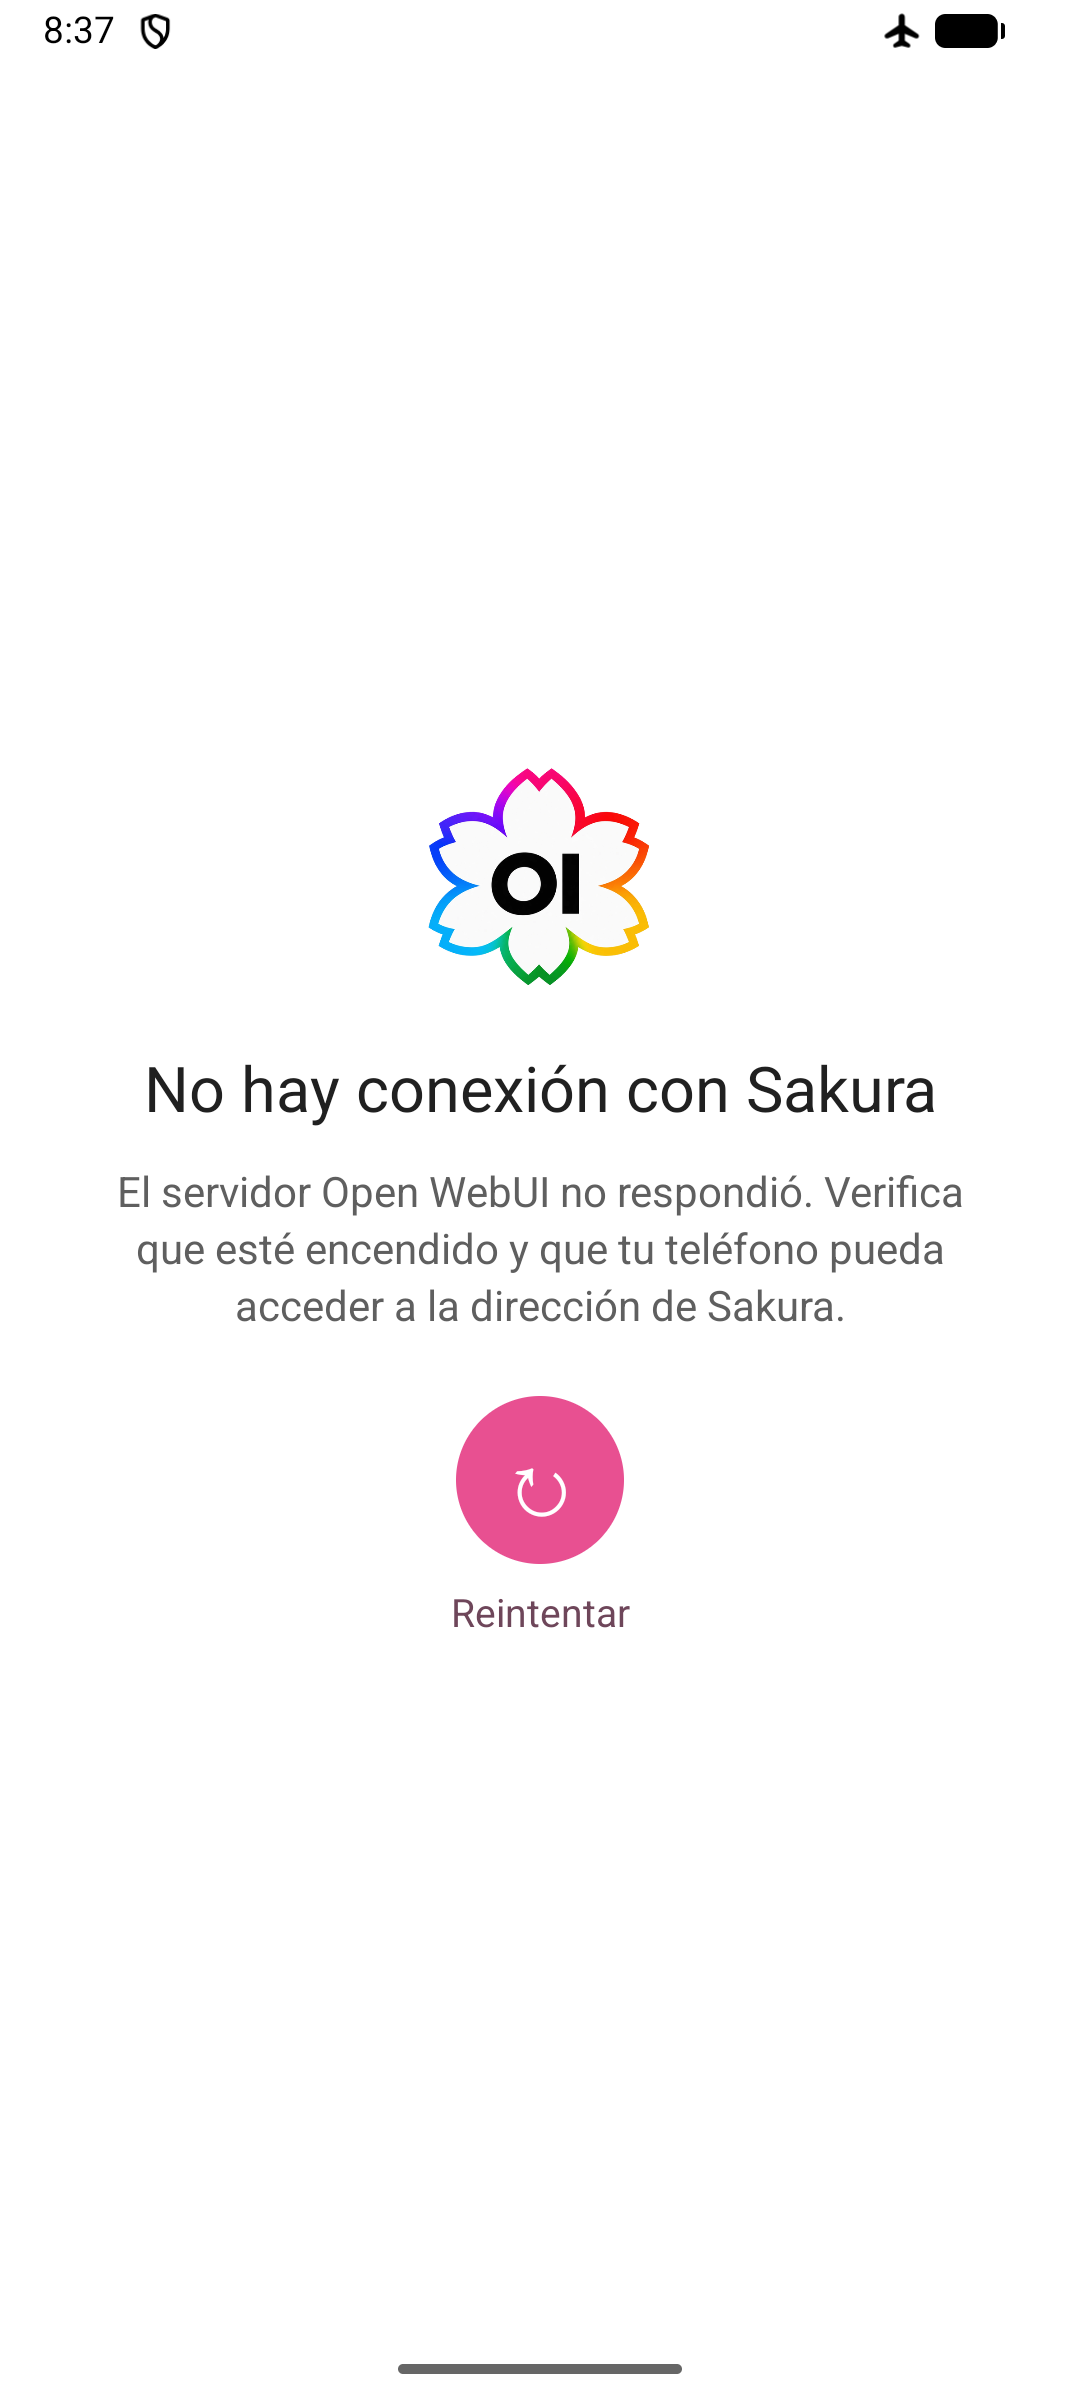
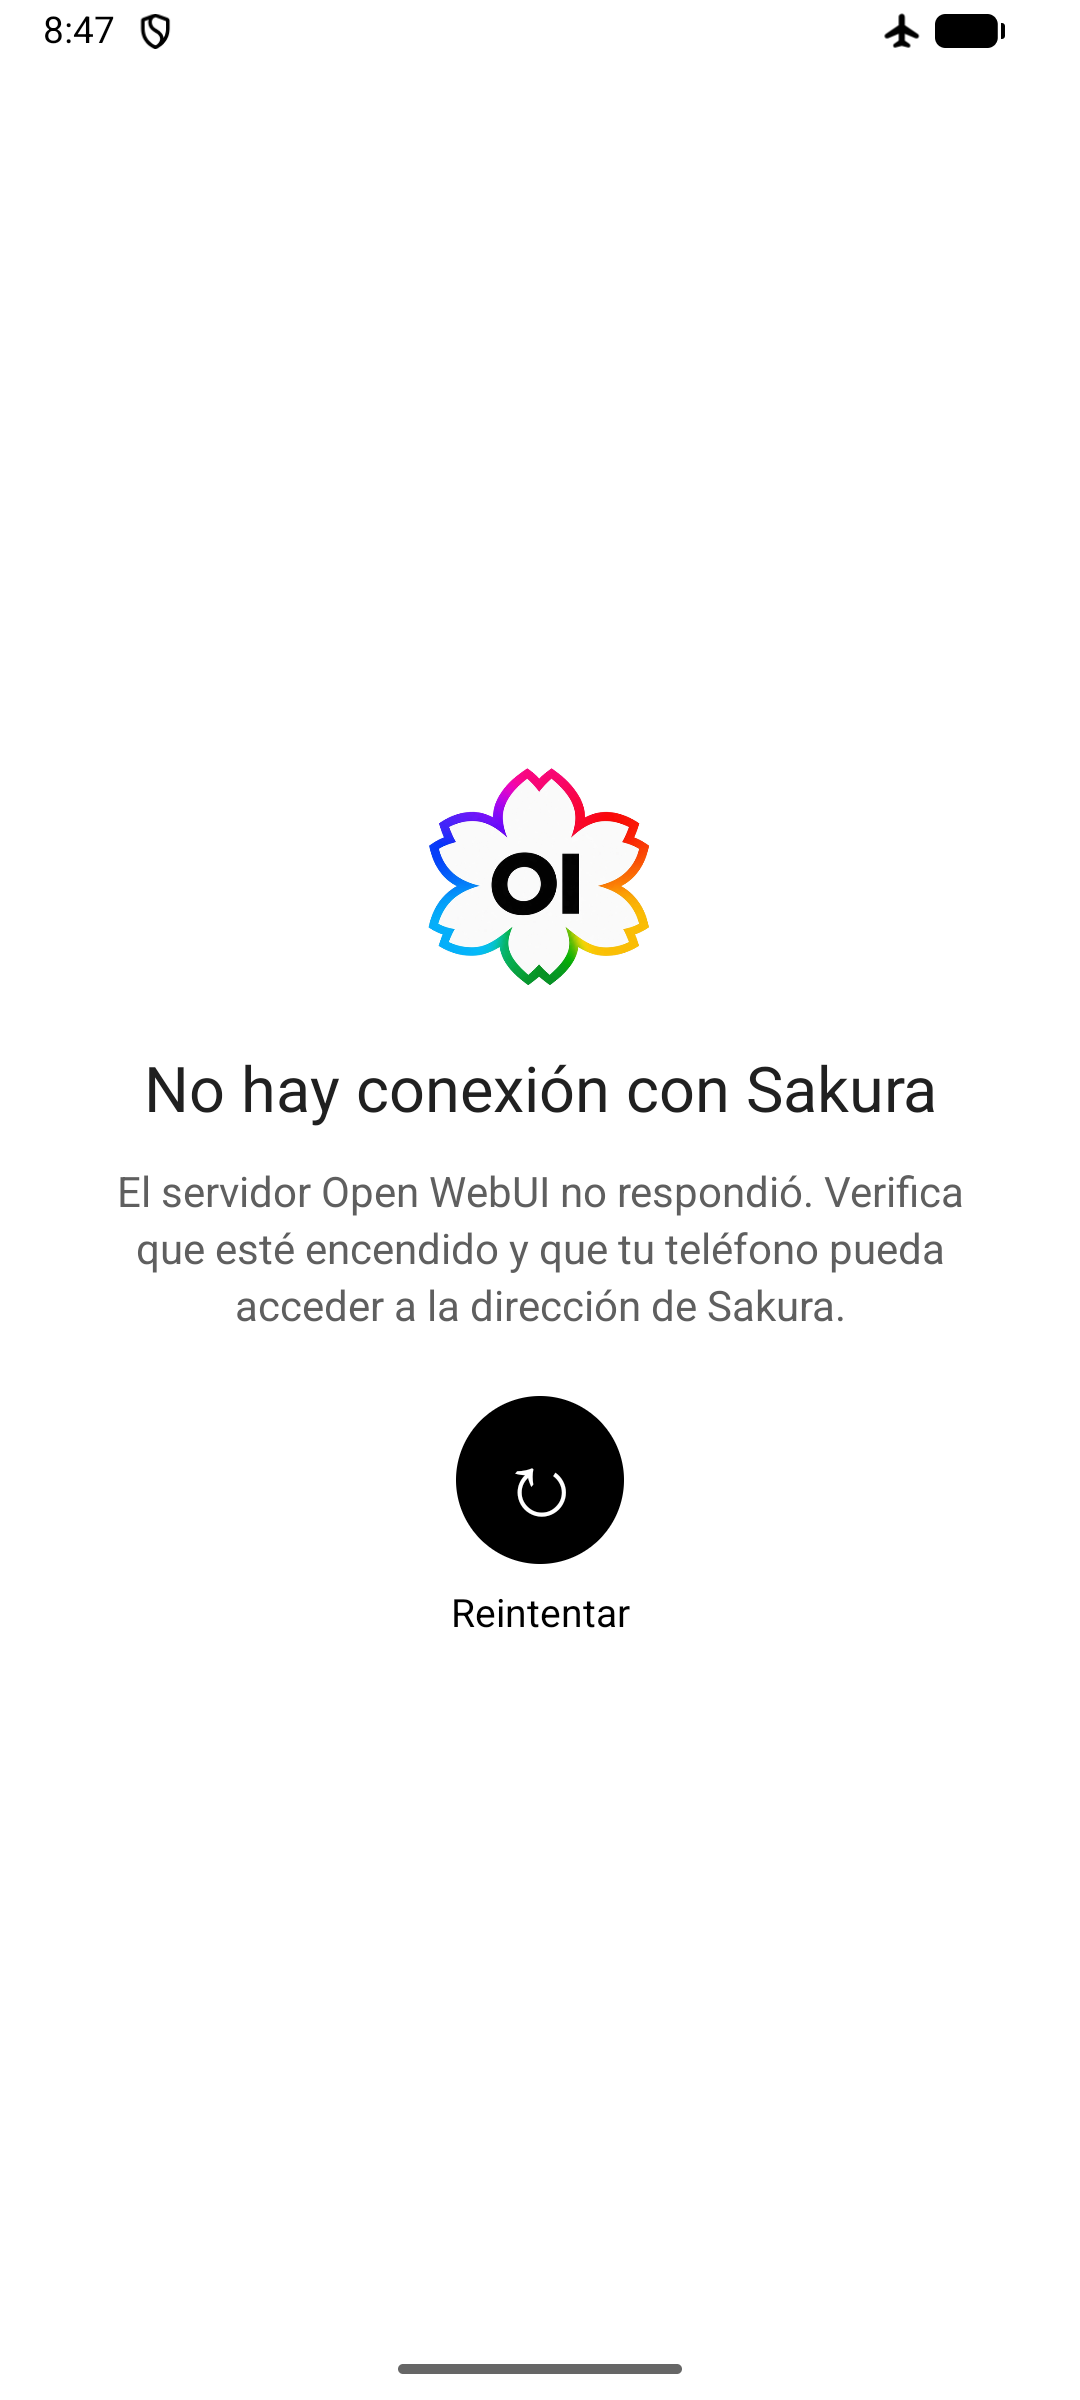
Rename the project to Sakura-OI-Web and document 0.2.3
Gradle root project name, example paths in the guides, README release
notes and history row, CHANGELOG entry and error screen screenshot.

Changed region(s): [[0.4278, 0.5625, 0.5806, 0.6875], [0.0611, 0.0, 0.0917, 0.0312]]

diff --git a/README.md b/README.md
@@ -1,4 +1,4 @@
-# 🌸 Sakura OI Web 📱 v0.2.2
+# 🌸 Sakura OI Web 📱 v0.2.3
 
 <div align="center">
   <img src="assets/sakura-oi-web-icon.png" alt="Logo de Sakura OI Web: flor con contorno arcoíris y las letras OI" width="160">
@@ -63,8 +63,8 @@ Las capturas muestran la animación de inicio mientras conecta, la pantalla de e
 
 ## 📦 Versiones documentadas
 
-- App: Sakura OI Web **0.2.2** (versionCode 26). Historial completo en [CHANGELOG.md](CHANGELOG.md).
-- Notificaciones verificadas en el teléfono Android 16 de referencia con Open WebUI 0.12.3. Pantallas, icono y barras en tema claro y oscuro de 0.2.1 y 0.2.2 verificados en el emulador de Android Studio (API 37).
+- App: Sakura OI Web **0.2.3** (versionCode 27). Historial completo en [CHANGELOG.md](CHANGELOG.md).
+- Notificaciones verificadas en el teléfono Android 16 de referencia con Open WebUI 0.12.3. Pantallas, icono y barras en tema claro y oscuro de 0.2.1 a 0.2.3 verificados en el emulador de Android Studio (API 37).
 - Open WebUI: **0.12.3**, versión verificada en la instalación local.
 - Nombre visible del modelo en Open WebUI: **Sakura**. Los registros identifican **llama.cpp 0.7.0-dev**, compilado para x64 con CUDA desde el commit `ea0c4c2c8`, que carga `SoAIHQ/Qwen3.5-9B-GGUF:Q4_K_M` (Qwen 3.5 de 9B, cuantización Q4_K_M). llama.cpp es el servidor de inferencia; el modelo no pertenece a la familia Llama. El alias Sakura se configura en Open WebUI.
 - Voz de ejemplo (opcional): Qwen3-TTS Fast compatible con API de OpenAI, modelo **qwen3-tts-clone-0.6b**, puerto local **5052**. Puedes usar otro TTS compatible o no configurar voz.
@@ -72,7 +72,13 @@ Las capturas muestran la animación de inicio mientras conecta, la pantalla de e
 - Herramientas fijadas en el proyecto: Android Gradle Plugin 9.4.1, Gradle 9.6.0, Kotlin 2.2.10 y JDK 17 para ejecutar Gradle. El código Java usa compatibilidad de lenguaje 11.
 - La activación por palabra “Oye, Sakura” queda como idea futura; no está implementada.
 
-## 🆕 Novedades de la versión 0.2.2
+## 🆕 Novedades de la versión 0.2.3
+
+- **Botón Reintentar en negro:** en la pantalla “No hay conexión con Sakura”, el botón redondo es negro con la flecha blanca y el texto **Reintentar** es negro, igual que la pantalla de carga. En modo oscuro se invierten: botón blanco, flecha negra y texto blanco.
+- **Repositorio renombrado a Sakura-OI-Web:** las rutas de ejemplo de las guías usan la carpeta `Sakura-OI-Web` y el proyecto de Android Studio se llama igual. Los enlaces antiguos a `SakuraWebApp` redirigen al nuevo nombre.
+- **Captura de la pantalla de error** actualizada.
+
+### Versión 0.2.2
 
 - **Indicador de carga y texto en negro:** el círculo que gira y el texto “Conectándose con el servidor…” de la pantalla de carga ahora son negros, en lugar del arcoíris y el rosa de 0.2.1. Con el teléfono en modo oscuro se muestran en blanco para que se vean sobre el fondo oscuro.
 - **Captura de la pantalla de carga** actualizada.
@@ -94,7 +100,7 @@ Cambios solo de documentación y del servidor, publicados entre las versiones 0.
 - **Cambiar el logo y el favicon de Open WebUI:** [server/aplicar_icono.py](server/aplicar_icono.py) genera todos los iconos desde una imagen, los aplica sin reiniciar y puede restaurar los originales con `--restaurar`. Desde cualquier carpeta:
 
   ```powershell
-  & 'C:\ruta\a\Open WebUI\Scripts\python.exe' 'C:\ruta\a\SakuraWebApp\server\aplicar_icono.py' --logo 'C:\ruta\a\mi-logo.png'
+  & 'C:\ruta\a\Open WebUI\Scripts\python.exe' 'C:\ruta\a\Sakura-OI-Web\server\aplicar_icono.py' --logo 'C:\ruta\a\mi-logo.png'
   ```
 
   Detalles, licencia y cómo quitar el icono viejo de la caché en [docs/ICONO-OPENWEBUI.md](docs/ICONO-OPENWEBUI.md).
@@ -115,7 +121,8 @@ Resumen de todos los cambios de la app. El detalle de cada versión está en [CH
 
 | Versión | versionCode | Cambios |
 |---|---:|---|
-| **0.2.2** | 26 | Indicador de carga y texto “Conectándose con el servidor…” en negro (blanco en modo oscuro). |
+| **0.2.3** | 27 | Botón y texto **Reintentar** en negro (invertidos en modo oscuro); repositorio y proyecto renombrados a Sakura-OI-Web. |
+| 0.2.2 | 26 | Indicador de carga y texto “Conectándose con el servidor…” en negro (blanco en modo oscuro). |
 | 0.2.1 | 25 | Nombre Sakura OI Web, nueva identidad (icono, logo y pantallas), indicador de carga con los colores del logo, texto “Conectándose con el servidor…”, barras del sistema que siguen el tema oscuro y reconocimiento de URLs sin puerto (Tailscale). |
 | 0.2.0 | 24 | Compilación local con el nombre Sakura OI Web; no se publicó por separado y sus cambios están en 0.2.1. |
 | 0.1.12 | 23 | Compilación local con la flor de Sakura en la pantalla de error; incluida en 0.2.1. |
@@ -152,7 +159,7 @@ Instala Android Studio compatible con Android Gradle Plugin 9.4.1, Android SDK P
 | Android mínimo | API 23 / Android 6.0 | Versión mínima para instalar la app |
 | Android objetivo | API 36 / Android 16 | Comportamientos de Android para los que está configurada |
 | SDK de compilación | API 37 / Android 17 | Plataforma necesaria para compilar; no es requisito para el teléfono |
-| Versión de Sakura OI Web | 0.2.2 (versionCode 26) | Versión del APK de este repositorio |
+| Versión de Sakura OI Web | 0.2.3 (versionCode 27) | Versión del APK de este repositorio |
 
 La versión de Android de tu teléfono es independiente del SDK de compilación. En el dispositivo Android 16 de referencia, la app funciona con target API 36.
 

diff --git a/docs/ANDROID.md b/docs/ANDROID.md
@@ -17,7 +17,7 @@ Esta tabla distingue la versión de Android que puede instalar la app del SDK us
 | Android mínimo (minSdk) | API 23 / Android 6.0 | Versión mínima admitida por el APK |
 | Android objetivo (targetSdk) | API 36 / Android 16 | Comportamientos del sistema para los que se configura |
 | SDK de compilación (compileSdk) | API 37 / Android 17 | SDK que debe instalarse para compilar; el teléfono no requiere Android 17 |
-| Sakura OI Web | 0.2.2 (versionCode 26) | Versión actual del proyecto |
+| Sakura OI Web | 0.2.3 (versionCode 27) | Versión actual del proyecto |
 | Android Gradle Plugin | 9.4.1 | Plugin de compilación Android |
 | Gradle Wrapper | 9.6.0 | Versión incluida y usada por el proyecto |
 | Kotlin | 2.2.10 | Versión configurada del plugin de Kotlin |
@@ -147,7 +147,7 @@ Las pantallas de carga y de error, y la ventana que Android muestra mientras abr
 
 ## Carga y error de conexión
 
-Al abrir o reanudar una nueva instancia de Sakura OI Web, primero aparece una pantalla propia de carga con el logo, el nombre y la versión de la app, un indicador giratorio y el texto “Conectándose con el servidor…”, ambos en negro (en blanco si el teléfono está en modo oscuro). No es la pantalla de Open WebUI: es el estado de inicio de la app. Cuando el servidor responde, se oculta la carga y se muestra la interfaz completa de Open WebUI dentro del WebView. Si la página principal no carga en cinco segundos, la app presenta una pantalla propia de error “No hay conexión con Sakura”, en vez de dejar una página blanca o mostrar el error de Chromium. El botón **Reintentar** vuelve a mostrar la carga y realiza una nueva navegación. Android puede destruir el proceso en segundo plano; al abrir de nuevo, la carga vuelve a mostrarse.
+Al abrir o reanudar una nueva instancia de Sakura OI Web, primero aparece una pantalla propia de carga con el logo, el nombre y la versión de la app, un indicador giratorio y el texto “Conectándose con el servidor…”, ambos en negro (en blanco si el teléfono está en modo oscuro). No es la pantalla de Open WebUI: es el estado de inicio de la app. Cuando el servidor responde, se oculta la carga y se muestra la interfaz completa de Open WebUI dentro del WebView. Si la página principal no carga en cinco segundos, la app presenta una pantalla propia de error “No hay conexión con Sakura”, en vez de dejar una página blanca o mostrar el error de Chromium. El botón **Reintentar** (negro con la flecha blanca, o blanco con la flecha negra en modo oscuro) vuelve a mostrar la carga y realiza una nueva navegación. Android puede destruir el proceso en segundo plano; al abrir de nuevo, la carga vuelve a mostrarse.
 
 | Al conectar | Si no hay conexión |
 |:--:|:--:|

diff --git a/docs/ICONO-OPENWEBUI.md b/docs/ICONO-OPENWEBUI.md
@@ -13,15 +13,15 @@ La licencia de Open WebUI restringe quitar o reemplazar su marca. Según su [lic
 Prepara una imagen cuadrada, de preferencia PNG con fondo transparente de 512×512 o más. Desde la carpeta del entorno de Open WebUI, ejecuta el script con su Python (ya incluye Pillow):
 
 ```powershell
-.\Scripts\python.exe C:\ruta\a\SakuraWebApp\server\aplicar_icono.py --logo C:\ruta\a\mi-logo.png
+.\Scripts\python.exe C:\ruta\a\Sakura-OI-Web\server\aplicar_icono.py --logo C:\ruta\a\mi-logo.png
 ```
 
-Por ejemplo, con el logo de este repositorio: `--logo C:\ruta\a\SakuraWebApp\assets\sakura-oi-web-icon.png`.
+Por ejemplo, con el logo de este repositorio: `--logo C:\ruta\a\Sakura-OI-Web\assets\sakura-oi-web-icon.png`.
 
 `.\Scripts\python.exe` es una ruta relativa: solo funciona si la terminal está en la carpeta de Open WebUI. Desde cualquier otra carpeta, escribe las rutas completas con el operador `&` de PowerShell (las comillas son necesarias si la ruta tiene espacios):
 
 ```powershell
-& 'C:\ruta\a\Open WebUI\Scripts\python.exe' 'C:\ruta\a\SakuraWebApp\server\aplicar_icono.py' --logo 'C:\ruta\a\mi-logo.png'
+& 'C:\ruta\a\Open WebUI\Scripts\python.exe' 'C:\ruta\a\Sakura-OI-Web\server\aplicar_icono.py' --logo 'C:\ruta\a\mi-logo.png'
 ```
 
 Si todo va bien, muestra una línea `ok ...` por cada archivo y termina con `Listo.` Si no aparece nada, o PowerShell dice que no reconoce el comando, la ruta de `python.exe` es incorrecta.
@@ -33,7 +33,7 @@ No hace falta reiniciar Open WebUI: recarga la página con **Ctrl+F5**.
 Para volver a los iconos originales:
 
 ```powershell
-.\Scripts\python.exe C:\ruta\a\SakuraWebApp\server\aplicar_icono.py --restaurar
+.\Scripts\python.exe C:\ruta\a\Sakura-OI-Web\server\aplicar_icono.py --restaurar
 ```
 
 La primera vez guarda los originales en `open_webui/frontend/.iconos-originales`.

diff --git a/CHANGELOG.md b/CHANGELOG.md
@@ -2,6 +2,13 @@
 
 Cambios de Sakura OI Web (antes SakuraWebApp) por versión. La versión de cada APK está en `app/build.gradle.kts` (`versionName` y `versionCode`).
 
+## 0.2.3 (versionCode 27) — 1 de noviembre de 2026
+
+### Cambiado
+- Pantalla de error: el botón Reintentar es negro con la flecha blanca y su texto es negro, en lugar de rosa. En modo oscuro se invierten los colores.
+- El repositorio pasa a llamarse **Sakura-OI-Web** (`rootProject.name` en `settings.gradle.kts` y rutas de ejemplo en las guías).
+- Captura de la pantalla de error actualizada en `docs/images/connection-error.png`.
+
 ## 0.2.2 (versionCode 26) — 1 de noviembre de 2026
 
 ### Cambiado
